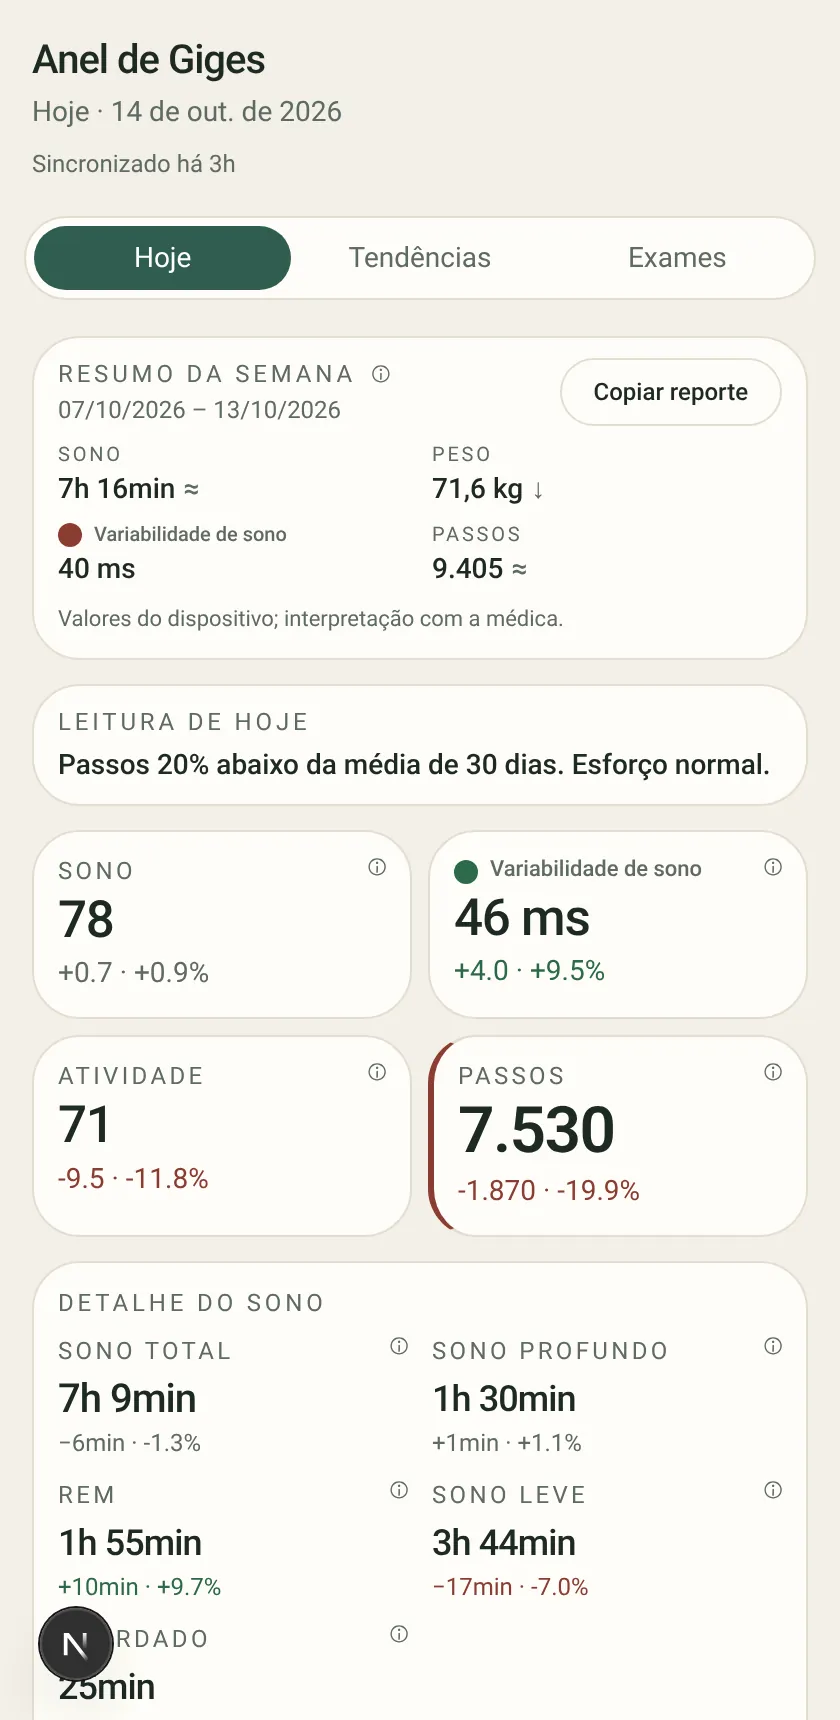
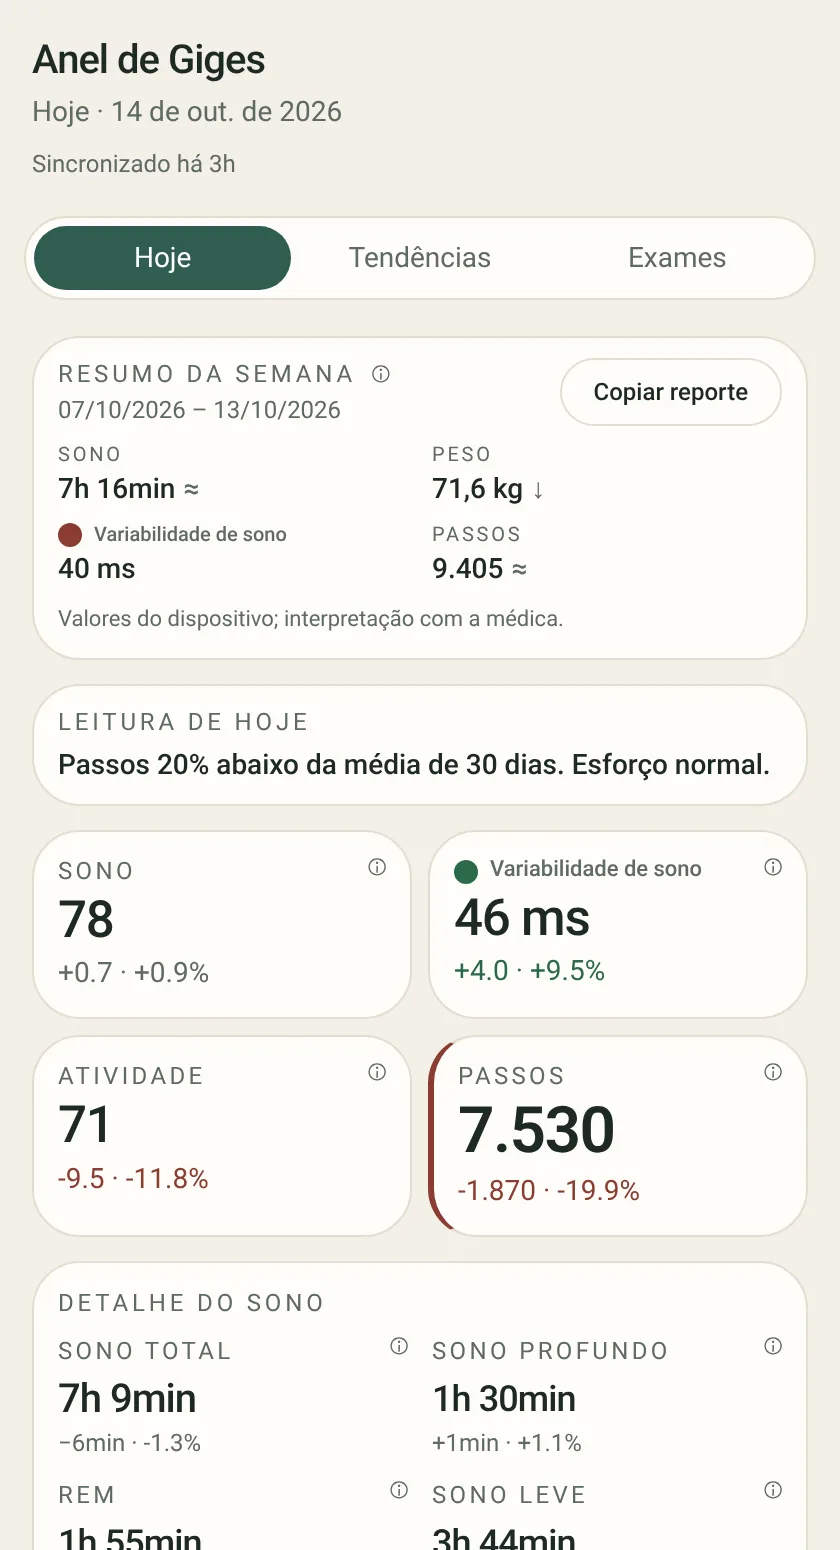
Present private projects as cards with phone-frame screenshots (#14)

diff --git a/about/index.html b/about/index.html
@@ -124,6 +124,22 @@
 
             <section class="section">
                 <h2 class="section-title"><span class="i18n-en">Things I've built</span><span class="i18n-pt">Coisas que construí</span></h2>
+                <div class="project-cards">
+                    <figure class="project-card">
+                        <div class="project-card-device"><img class="project-card-shot" src="../projects/anel-de-giges.webp" width="840" height="1550" loading="lazy" decoding="async" alt="Anel de Giges dashboard on mobile, shown with example data"></div>
+                        <figcaption>
+                            <p class="project-card-name">Anel de Giges <span class="tag"><span class="i18n-en">Private</span><span class="i18n-pt">Privado</span></span></p>
+                            <p class="project-card-desc"><span class="i18n-en">Oura ring and smart-scale data pipeline, with an AI agent as the interface that sends me a daily health digest in chat. Next.js, Supabase, Vercel.</span><span class="i18n-pt">Pipeline de dados do anel Oura e da balança inteligente, com um agente de IA como interface que me manda um resumo diário de saúde no chat. Next.js, Supabase, Vercel.</span></p>
+                        </figcaption>
+                    </figure>
+                    <figure class="project-card">
+                        <div class="project-card-device"><img class="project-card-shot" src="../projects/tickets.webp" width="840" height="1550" loading="lazy" decoding="async" alt="Tickets tracker on mobile, shown with example matches"></div>
+                        <figcaption>
+                            <p class="project-card-name">Tickets <span class="tag"><span class="i18n-en">Private</span><span class="i18n-pt">Privado</span></span></p>
+                            <p class="project-card-desc"><span class="i18n-en">Football tickets tracker for matches with my son and family, auto-updated by an AI agent when I buy a ticket, filtered by who's going.</span><span class="i18n-pt">Controle de ingressos de futebol para jogos com meu filho e a família, atualizado por um agente de IA quando compro um ingresso, com filtro por quem vai.</span></p>
+                        </figcaption>
+                    </figure>
+                </div>
                 <ul class="fact-list">
                     <li>
                         <a href="https://quem-ganhou.vercel.app" target="_blank" rel="noopener noreferrer">Quem Ganhou?</a>
@@ -144,20 +160,6 @@
                         <a href="https://football-around-the-world.vercel.app" target="_blank" rel="noopener noreferrer">Football around the world</a>
                         <span class="i18n-en"> — stadium and shirt album built with my son.</span>
                         <span class="i18n-pt"> — álbum de estádios e camisas, feito com meu filho.</span>
-                    </li>
-                    <li>
-                        Anel de Giges
-                        <span class="i18n-en"> — Oura ring and smart-scale data pipeline, with an AI agent as the interface that sends me a daily health digest in chat. Next.js, Supabase, Vercel.</span>
-                        <span class="i18n-pt"> — pipeline de dados do anel Oura e da balança inteligente, com um agente de IA como interface que me manda um resumo diário de saúde no chat. Next.js, Supabase, Vercel.</span>
-                        <span class="tag"><span class="i18n-en">Private</span><span class="i18n-pt">Privado</span></span>
-                        <img class="project-shot" src="../projects/anel-de-giges.webp" width="420" height="860" loading="lazy" decoding="async" alt="Anel de Giges dashboard on mobile, shown with example data">
-                    </li>
-                    <li>
-                        Tickets
-                        <span class="i18n-en"> — football tickets tracker for matches with my son and family, auto-updated by an AI agent when I buy a ticket, filtered by who's going.</span>
-                        <span class="i18n-pt"> — controle de ingressos de futebol para jogos com meu filho e a família, atualizado por um agente de IA quando compro um ingresso, com filtro por quem vai.</span>
-                        <span class="tag"><span class="i18n-en">Private</span><span class="i18n-pt">Privado</span></span>
-                        <img class="project-shot" src="../projects/tickets.webp" width="420" height="900" loading="lazy" decoding="async" alt="Tickets tracker on mobile, shown with example matches">
                     </li>
                 </ul>
             </section>

diff --git a/site.css b/site.css
@@ -669,14 +669,57 @@ html:not([data-lang="pt"]) .i18n-pt {
     }
 }
 
-.project-shot {
-    display: block;
-    width: 100%;
-    max-width: 220px;
-    height: auto;
-    margin: 0.75rem 0 0.25rem;
+.project-cards {
+    display: grid;
+    grid-template-columns: 1fr 1fr;
+    gap: 1.25rem;
+    margin: 0 0 1.5rem;
+}
+
+.project-card {
+    margin: 0;
     border: 1px solid var(--rule);
     border-radius: 14px;
-    box-shadow: 0 6px 20px var(--shadow);
     background: var(--card);
+    overflow: hidden;
+}
+
+.project-card-device {
+    display: flex;
+    justify-content: center;
+    height: 230px;
+    padding: 1.5rem 1.5rem 0;
+    overflow: hidden;
+    background: #ebe5d8;
+}
+
+.project-card-shot {
+    align-self: flex-start;
+    width: 150px;
+    height: auto;
+    border: 6px solid var(--ink);
+    border-bottom: 0;
+    border-radius: 22px 22px 0 0;
+}
+
+.project-card figcaption {
+    padding: 1rem 1.1rem 1.2rem;
+}
+
+.project-card-name {
+    margin: 0;
+    font-weight: 600;
+}
+
+.project-card-desc {
+    margin: 0.35rem 0 0;
+    color: var(--muted);
+    font-size: 0.92rem;
+    line-height: 1.45;
+}
+
+@media (max-width: 680px) {
+    .project-cards {
+        grid-template-columns: 1fr;
+    }
 }
